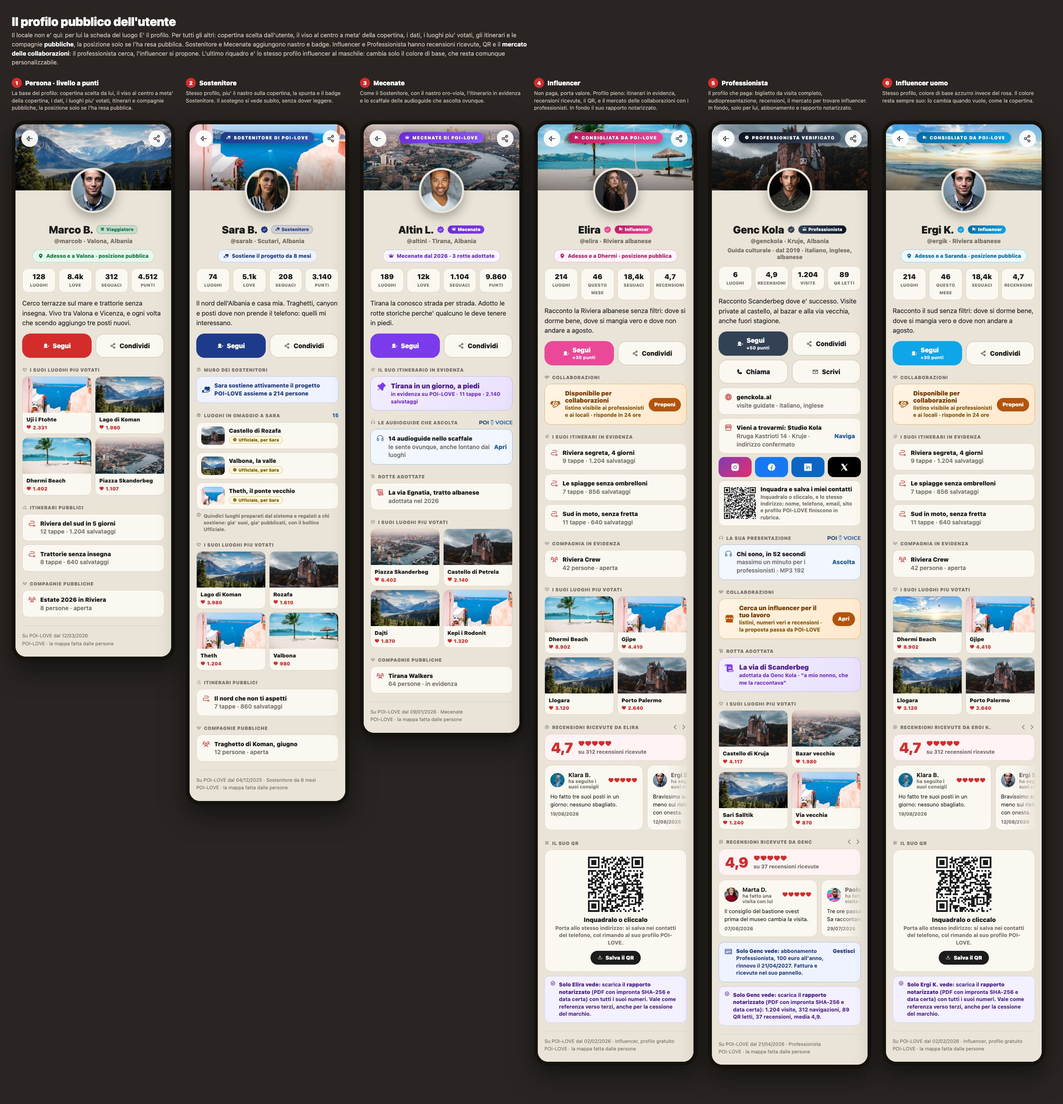
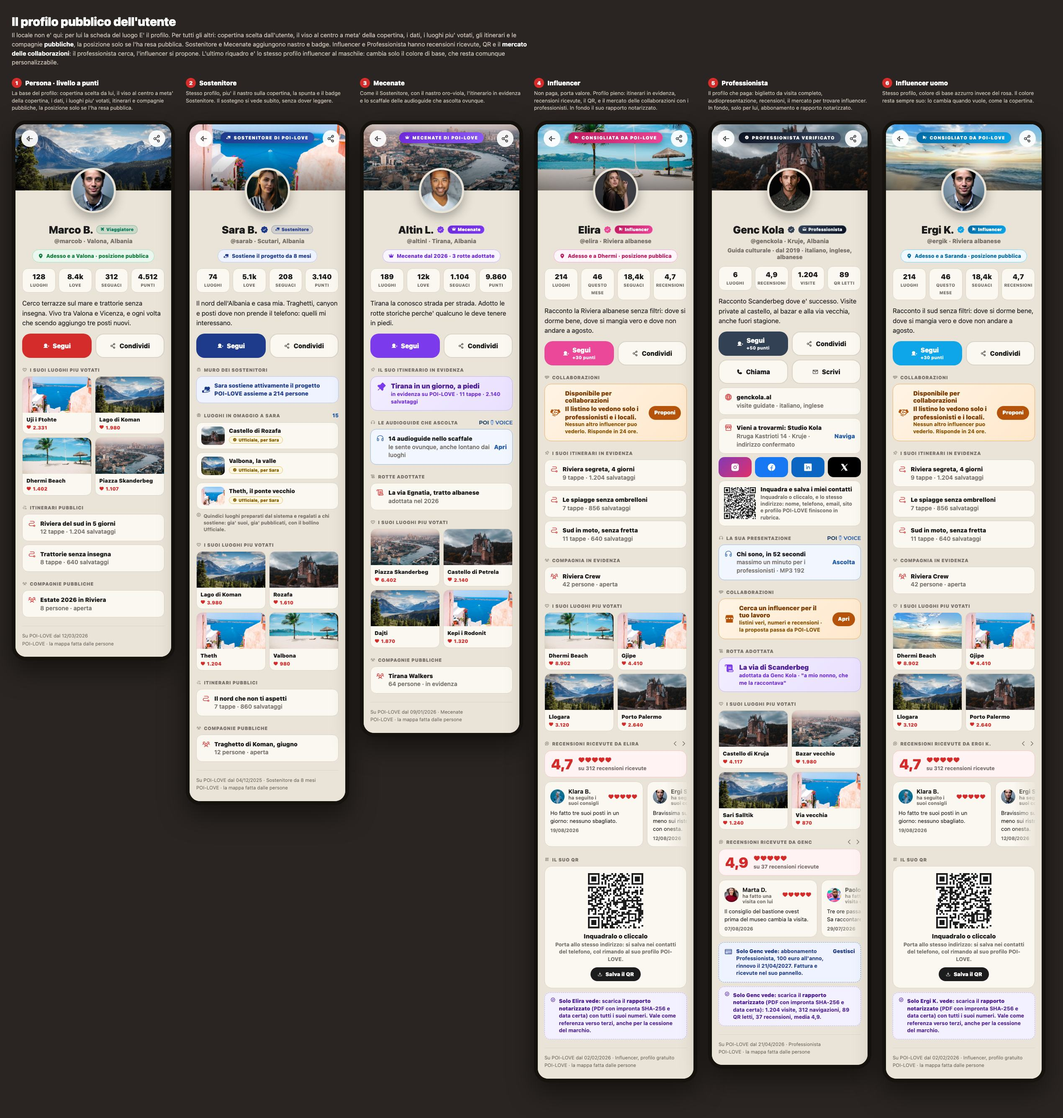
Rate card visible to professionals only; review moderation run by AI on written directives

Changed region(s): [[0.0, 0.0311, 0.9953, 0.9636]]

diff --git a/docs/mockup-schede-profili/profili.html b/docs/mockup-schede-profili/profili.html
@@ -284,7 +284,7 @@
         
         <div class="sez"><i class="ph-duotone ph-handshake"></i>Collaborazioni</div>
         <div class="mercato"><i class="ph-fill ph-handshake"></i><div><b>Disponibile per collaborazioni</b>
-          <span>listino visibile ai professionisti e ai locali · risponde in 24 ore</span></div>
+          <span><b>Il listino lo vedono solo i professionisti e i locali.</b> Nessun altro influencer puo vederlo. Risponde in 24 ore.</span></div>
           <span class="dx">Proponi</span></div>
         <div class="sez"><i class="ph-duotone ph-push-pin"></i>I suoi itinerari in evidenza</div><div class="riga"><i class="ph-duotone ph-path"></i><div><b>Riviera segreta, 4 giorni</b><br><span style="color:var(--tenue);font-weight:600">9 tappe · 1.204 salvataggi</span></div></div><div class="riga"><i class="ph-duotone ph-path"></i><div><b>Le spiagge senza ombrelloni</b><br><span style="color:var(--tenue);font-weight:600">7 tappe · 856 salvataggi</span></div></div><div class="riga"><i class="ph-duotone ph-path"></i><div><b>Sud in moto, senza fretta</b><br><span style="color:var(--tenue);font-weight:600">11 tappe · 640 salvataggi</span></div></div><div class="sez"><i class="ph-duotone ph-users-three"></i>Compagnia in evidenza</div><div class="riga"><i class="ph-duotone ph-users-three"></i><div><b>Riviera Crew</b><br><span style="color:var(--tenue);font-weight:600">42 persone · aperta</span></div></div><div class="sez"><i class="ph-duotone ph-heart"></i>I suoi luoghi piu votati</div><div class="poi2"><div><div class="im" style="background-image:url('f/5f6b75656d.jpg')"></div><div class="tx"><b>Dhermi Beach</b><span><i class="ph-fill ph-heart"></i>8.902</span></div></div><div><div class="im" style="background-image:url('f/14aa276da0.jpg')"></div><div class="tx"><b>Gjipe</b><span><i class="ph-fill ph-heart"></i>4.410</span></div></div><div><div class="im" style="background-image:url('f/1f43ef2975.jpg')"></div><div class="tx"><b>Llogara</b><span><i class="ph-fill ph-heart"></i>3.120</span></div></div><div><div class="im" style="background-image:url('f/25736c1fea.jpg')"></div><div class="tx"><b>Porto Palermo</b><span><i class="ph-fill ph-heart"></i>2.640</span></div></div></div><div class="sez"><i class="ph-duotone ph-chat-circle-text"></i>Recensioni ricevute da Elira<div class="frecce"><i class="ph-bold ph-caret-left"></i><i class="ph-bold ph-caret-right"></i></div></div><div class="media"><div class="num">4,7</div><div><div style="color:var(--rosso);font-size:16px;letter-spacing:2px"><i class="ph-fill ph-heart"></i><i class="ph-fill ph-heart"></i><i class="ph-fill ph-heart"></i><i class="ph-fill ph-heart"></i><i class="ph-fill ph-heart"></i></div><div style="font-size:12.5px;color:var(--tenue);font-weight:700;margin-top:3px">su 312 recensioni ricevute</div></div></div><div class="scorr"><div class="rec"><div class="cima"><div class="av" style="width:34px;height:34px;font-size:12px;background-image:url('f/p1.jpg')"></div><div><b style="font-size:14px">Klara B.</b><div style="font-size:11.5px;color:var(--tenue);font-weight:700">ha seguito i suoi consigli</div></div><div class="cuori"><i class="ph-fill ph-heart"></i><i class="ph-fill ph-heart"></i><i class="ph-fill ph-heart"></i><i class="ph-fill ph-heart"></i><i class="ph-fill ph-heart"></i></div></div><div class="testo">Ho fatto tre suoi posti in un giorno: nessuno sbagliato.</div><div class="quando">19/08/2026</div></div><div class="rec"><div class="cima"><div class="av" style="width:34px;height:34px;font-size:12px;background-image:url('f/p2.jpg')"></div><div><b style="font-size:14px">Ergi S.</b><div style="font-size:11.5px;color:var(--tenue);font-weight:700">ha seguito i suoi consigli</div></div><div class="cuori"><i class="ph-fill ph-heart"></i><i class="ph-fill ph-heart"></i><i class="ph-fill ph-heart"></i><i class="ph-fill ph-heart"></i><i class="ph-duotone ph-heart"></i></div></div><div class="testo">Bravissima sui posti di mare, meno sui ristoranti. Ma consiglia con onesta.</div><div class="quando">12/08/2026</div></div><div class="rec"><div class="cima"><div class="av" style="width:34px;height:34px;font-size:12px;background-image:url('f/p3.jpg')"></div><div><b style="font-size:14px">Nora T.</b><div style="font-size:11.5px;color:var(--tenue);font-weight:700">ha seguito i suoi consigli</div></div><div class="cuori"><i class="ph-fill ph-heart"></i><i class="ph-fill ph-heart"></i><i class="ph-fill ph-heart"></i><i class="ph-fill ph-heart"></i><i class="ph-fill ph-heart"></i></div></div><div class="testo">Il suo itinerario e diventato la nostra vacanza.</div><div class="quando">04/08/2026</div></div></div><div class="sez"><i class="ph-duotone ph-qr-code"></i>Il suo QR</div><div class="qrbox"><img src="f/qr-elira.png"><b>Inquadralo o cliccalo</b><span>Porta allo stesso indirizzo: si salva nei contatti del telefono, col rimando al suo profilo POI-LOVE.</span><div class="salva"><i class="ph-fill ph-download-simple"></i>Salva il QR</div></div><div class="solo-tuo" style="background:#F3F0FF;border-color:#C4B5FD;color:#4C1D95"><i class="ph-duotone ph-seal-check"></i><span><b>Solo Elira vede:</b> scarica il <b>rapporto notarizzato</b> (PDF con impronta SHA-256 e data certa) con tutti i suoi numeri. Vale come referenza verso terzi, anche per la cessione del marchio.</span></div><div class="piede">Su POI-LOVE dal 02/02/2026 · Influencer, profilo gratuito<br>POI-LOVE · la mappa fatta dalle persone</div></div></div></div><div class="col"><div class="etichetta"><span class="n">5</span> Professionista</div><div class="spiega">Il profilo che paga: biglietto da visita completo, audiopresentazione, recensioni, il mercato per trovare influencer. In fondo, solo per lui, abbonamento e rapporto notarizzato.</div><div class="tel"><div class="cop" style="background-image:url('f/25736c1fea.jpg')"><div class="fbtn sx"><i class="ph-duotone ph-arrow-left"></i></div><div class="fbtn dx"><i class="ph-duotone ph-share-network"></i></div><div class="nastro" style="background:linear-gradient(135deg,#0b1220,#3b4a63)"><i class="ph-fill ph-seal-check"></i>Professionista verificato</div><div class="avatarone" style="background-image:url('f/p4.jpg')"></div></div>
       <div class="corpo">
@@ -309,7 +309,7 @@
           <div class="social" style="background:#000"><i class="ph-fill ph-x-logo"></i></div></div>
         <div class="qrriga"><img src="f/qr-contatti.png"><div><b>Inquadra e salva i miei contatti</b>
           <span>Inquadralo o cliccalo, e lo stesso indirizzo: nome, telefono, email, sito e profilo POI-LOVE finiscono in rubrica.</span></div></div>
-        <div class="sez"><i class="ph-duotone ph-headphones"></i>La sua presentazione<img class="marchio-voice" src="logo-poivoice.svg"></div><div class="riga rvoice"><i class="ph-duotone ph-headphones"></i><div><b>Chi sono, in 52 secondi</b><br><span style="color:var(--tenue);font-weight:600">massimo un minuto per i professionisti · MP3 192</span></div><span class="dx">Ascolta</span></div><div class="sez"><i class="ph-duotone ph-handshake"></i>Collaborazioni</div><div class="mercato"><i class="ph-fill ph-storefront"></i><div><b>Cerca un influencer per il tuo lavoro</b><span>listini, numeri veri e recensioni · la proposta passa da POI-LOVE</span></div><span class="dx">Apri</span></div><div class="sez"><i class="ph-duotone ph-scroll"></i>Rotta adottata</div><div class="rotta"><i class="ph-fill ph-scroll"></i><div><b>La via di Scanderbeg</b><br><span>adottata da Genc Kola · "a mio nonno, che me la raccontava"</span></div></div><div class="sez"><i class="ph-duotone ph-heart"></i>I suoi luoghi piu votati</div><div class="poi2"><div><div class="im" style="background-image:url('f/25736c1fea.jpg')"></div><div class="tx"><b>Castello di Kruja</b><span><i class="ph-fill ph-heart"></i>4.117</span></div></div><div><div class="im" style="background-image:url('f/525029b70f.jpg')"></div><div class="tx"><b>Bazar vecchio</b><span><i class="ph-fill ph-heart"></i>1.980</span></div></div><div><div class="im" style="background-image:url('f/1f43ef2975.jpg')"></div><div class="tx"><b>Sari Salltik</b><span><i class="ph-fill ph-heart"></i>1.240</span></div></div><div><div class="im" style="background-image:url('f/14aa276da0.jpg')"></div><div class="tx"><b>Via vecchia</b><span><i class="ph-fill ph-heart"></i>870</span></div></div></div><div class="sez"><i class="ph-duotone ph-chat-circle-text"></i>Recensioni ricevute da Genc<div class="frecce"><i class="ph-bold ph-caret-left"></i><i class="ph-bold ph-caret-right"></i></div></div><div class="media"><div class="num">4,9</div><div><div style="color:var(--rosso);font-size:16px;letter-spacing:2px"><i class="ph-fill ph-heart"></i><i class="ph-fill ph-heart"></i><i class="ph-fill ph-heart"></i><i class="ph-fill ph-heart"></i><i class="ph-fill ph-heart"></i></div><div style="font-size:12.5px;color:var(--tenue);font-weight:700;margin-top:3px">su 37 recensioni ricevute</div></div></div><div class="scorr"><div class="rec"><div class="cima"><div class="av" style="width:34px;height:34px;font-size:12px;background-image:url('f/8219fe4294.jpg')"></div><div><b style="font-size:14px">Marta D.</b><div style="font-size:11.5px;color:var(--tenue);font-weight:700">ha fatto una visita con lui</div></div><div class="cuori"><i class="ph-fill ph-heart"></i><i class="ph-fill ph-heart"></i><i class="ph-fill ph-heart"></i><i class="ph-fill ph-heart"></i><i class="ph-fill ph-heart"></i></div></div><div class="testo">Il consiglio del bastione ovest prima del museo cambia la visita.</div><div class="quando">07/08/2026</div></div><div class="rec"><div class="cima"><div class="av" style="width:34px;height:34px;font-size:12px;background-image:url('f/p6.jpg')"></div><div><b style="font-size:14px">Paolo V.</b><div style="font-size:11.5px;color:var(--tenue);font-weight:700">ha fatto una visita con lui</div></div><div class="cuori"><i class="ph-fill ph-heart"></i><i class="ph-fill ph-heart"></i><i class="ph-fill ph-heart"></i><i class="ph-fill ph-heart"></i><i class="ph-fill ph-heart"></i></div></div><div class="testo">Tre ore passate come venti minuti. Sa raccontare senza recitare.</div><div class="quando">29/07/2026</div></div><div class="rec"><div class="cima"><div class="av" style="width:34px;height:34px;font-size:12px;background-image:url('f/489a56cf0a.jpg')"></div><div><b style="font-size:14px">Ana K.</b><div style="font-size:11.5px;color:var(--tenue);font-weight:700">ha fatto una visita con lui</div></div><div class="cuori"><i class="ph-fill ph-heart"></i><i class="ph-fill ph-heart"></i><i class="ph-fill ph-heart"></i><i class="ph-fill ph-heart"></i><i class="ph-duotone ph-heart"></i></div></div><div class="testo">Molto preparato. Portate acqua, la salita e vera.</div><div class="quando">16/07/2026</div></div></div><div class="abb"><i class="ph-duotone ph-credit-card" style="font-size:19px"></i><div><b>Solo Genc vede:</b> abbonamento Professionista, 100 euro all&#39;anno, rinnovo il 21/04/2027. Fattura e ricevute nel suo pannello.</div><span class="dx">Gestisci</span></div><div class="solo-tuo" style="background:#F3F0FF;border-color:#C4B5FD;color:#4C1D95"><i class="ph-duotone ph-seal-check"></i><span><b>Solo Genc vede:</b> scarica il <b>rapporto notarizzato</b> (PDF con impronta SHA-256 e data certa): 1.204 visite, 312 navigazioni, 89 QR letti, 37 recensioni, media 4,9.</span></div><div class="piede">Su POI-LOVE dal 21/04/2026 · Professionista<br>POI-LOVE · la mappa fatta dalle persone</div></div></div></div><div class="col"><div class="etichetta"><span class="n">6</span> Influencer uomo</div><div class="spiega">Stesso profilo, colore di base azzurro invece del rosa. Il colore resta sempre suo: lo cambia quando vuole, come la copertina.</div><div class="tel"><div class="cop" style="background-image:url('f/2bfcc9130b.jpg')"><div class="fbtn sx"><i class="ph-duotone ph-arrow-left"></i></div><div class="fbtn dx"><i class="ph-duotone ph-share-network"></i></div><div class="nastro" style="background:linear-gradient(135deg,#0369a1,#0ea5e9)"><i class="ph-fill ph-megaphone"></i>Consigliato da POI-LOVE</div><div class="avatarone" style="background-image:url('f/p2.jpg')"></div></div>
+        <div class="sez"><i class="ph-duotone ph-headphones"></i>La sua presentazione<img class="marchio-voice" src="logo-poivoice.svg"></div><div class="riga rvoice"><i class="ph-duotone ph-headphones"></i><div><b>Chi sono, in 52 secondi</b><br><span style="color:var(--tenue);font-weight:600">massimo un minuto per i professionisti · MP3 192</span></div><span class="dx">Ascolta</span></div><div class="sez"><i class="ph-duotone ph-handshake"></i>Collaborazioni</div><div class="mercato"><i class="ph-fill ph-storefront"></i><div><b>Cerca un influencer per il tuo lavoro</b><span>listini veri, numeri e recensioni · la proposta passa da POI-LOVE</span></div><span class="dx">Apri</span></div><div class="sez"><i class="ph-duotone ph-scroll"></i>Rotta adottata</div><div class="rotta"><i class="ph-fill ph-scroll"></i><div><b>La via di Scanderbeg</b><br><span>adottata da Genc Kola · "a mio nonno, che me la raccontava"</span></div></div><div class="sez"><i class="ph-duotone ph-heart"></i>I suoi luoghi piu votati</div><div class="poi2"><div><div class="im" style="background-image:url('f/25736c1fea.jpg')"></div><div class="tx"><b>Castello di Kruja</b><span><i class="ph-fill ph-heart"></i>4.117</span></div></div><div><div class="im" style="background-image:url('f/525029b70f.jpg')"></div><div class="tx"><b>Bazar vecchio</b><span><i class="ph-fill ph-heart"></i>1.980</span></div></div><div><div class="im" style="background-image:url('f/1f43ef2975.jpg')"></div><div class="tx"><b>Sari Salltik</b><span><i class="ph-fill ph-heart"></i>1.240</span></div></div><div><div class="im" style="background-image:url('f/14aa276da0.jpg')"></div><div class="tx"><b>Via vecchia</b><span><i class="ph-fill ph-heart"></i>870</span></div></div></div><div class="sez"><i class="ph-duotone ph-chat-circle-text"></i>Recensioni ricevute da Genc<div class="frecce"><i class="ph-bold ph-caret-left"></i><i class="ph-bold ph-caret-right"></i></div></div><div class="media"><div class="num">4,9</div><div><div style="color:var(--rosso);font-size:16px;letter-spacing:2px"><i class="ph-fill ph-heart"></i><i class="ph-fill ph-heart"></i><i class="ph-fill ph-heart"></i><i class="ph-fill ph-heart"></i><i class="ph-fill ph-heart"></i></div><div style="font-size:12.5px;color:var(--tenue);font-weight:700;margin-top:3px">su 37 recensioni ricevute</div></div></div><div class="scorr"><div class="rec"><div class="cima"><div class="av" style="width:34px;height:34px;font-size:12px;background-image:url('f/8219fe4294.jpg')"></div><div><b style="font-size:14px">Marta D.</b><div style="font-size:11.5px;color:var(--tenue);font-weight:700">ha fatto una visita con lui</div></div><div class="cuori"><i class="ph-fill ph-heart"></i><i class="ph-fill ph-heart"></i><i class="ph-fill ph-heart"></i><i class="ph-fill ph-heart"></i><i class="ph-fill ph-heart"></i></div></div><div class="testo">Il consiglio del bastione ovest prima del museo cambia la visita.</div><div class="quando">07/08/2026</div></div><div class="rec"><div class="cima"><div class="av" style="width:34px;height:34px;font-size:12px;background-image:url('f/p6.jpg')"></div><div><b style="font-size:14px">Paolo V.</b><div style="font-size:11.5px;color:var(--tenue);font-weight:700">ha fatto una visita con lui</div></div><div class="cuori"><i class="ph-fill ph-heart"></i><i class="ph-fill ph-heart"></i><i class="ph-fill ph-heart"></i><i class="ph-fill ph-heart"></i><i class="ph-fill ph-heart"></i></div></div><div class="testo">Tre ore passate come venti minuti. Sa raccontare senza recitare.</div><div class="quando">29/07/2026</div></div><div class="rec"><div class="cima"><div class="av" style="width:34px;height:34px;font-size:12px;background-image:url('f/489a56cf0a.jpg')"></div><div><b style="font-size:14px">Ana K.</b><div style="font-size:11.5px;color:var(--tenue);font-weight:700">ha fatto una visita con lui</div></div><div class="cuori"><i class="ph-fill ph-heart"></i><i class="ph-fill ph-heart"></i><i class="ph-fill ph-heart"></i><i class="ph-fill ph-heart"></i><i class="ph-duotone ph-heart"></i></div></div><div class="testo">Molto preparato. Portate acqua, la salita e vera.</div><div class="quando">16/07/2026</div></div></div><div class="abb"><i class="ph-duotone ph-credit-card" style="font-size:19px"></i><div><b>Solo Genc vede:</b> abbonamento Professionista, 100 euro all&#39;anno, rinnovo il 21/04/2027. Fattura e ricevute nel suo pannello.</div><span class="dx">Gestisci</span></div><div class="solo-tuo" style="background:#F3F0FF;border-color:#C4B5FD;color:#4C1D95"><i class="ph-duotone ph-seal-check"></i><span><b>Solo Genc vede:</b> scarica il <b>rapporto notarizzato</b> (PDF con impronta SHA-256 e data certa): 1.204 visite, 312 navigazioni, 89 QR letti, 37 recensioni, media 4,9.</span></div><div class="piede">Su POI-LOVE dal 21/04/2026 · Professionista<br>POI-LOVE · la mappa fatta dalle persone</div></div></div></div><div class="col"><div class="etichetta"><span class="n">6</span> Influencer uomo</div><div class="spiega">Stesso profilo, colore di base azzurro invece del rosa. Il colore resta sempre suo: lo cambia quando vuole, come la copertina.</div><div class="tel"><div class="cop" style="background-image:url('f/2bfcc9130b.jpg')"><div class="fbtn sx"><i class="ph-duotone ph-arrow-left"></i></div><div class="fbtn dx"><i class="ph-duotone ph-share-network"></i></div><div class="nastro" style="background:linear-gradient(135deg,#0369a1,#0ea5e9)"><i class="ph-fill ph-megaphone"></i>Consigliato da POI-LOVE</div><div class="avatarone" style="background-image:url('f/p2.jpg')"></div></div>
       <div class="corpo">
         <div class="testa">
           <div class="nome-p">Ergi K. <i class="ph-fill ph-seal-check" style="color:#0ea5e9;font-size:19px"></i>
@@ -325,7 +325,7 @@
         
         <div class="sez"><i class="ph-duotone ph-handshake"></i>Collaborazioni</div>
         <div class="mercato"><i class="ph-fill ph-handshake"></i><div><b>Disponibile per collaborazioni</b>
-          <span>listino visibile ai professionisti e ai locali · risponde in 24 ore</span></div>
+          <span><b>Il listino lo vedono solo i professionisti e i locali.</b> Nessun altro influencer puo vederlo. Risponde in 24 ore.</span></div>
           <span class="dx">Proponi</span></div>
         <div class="sez"><i class="ph-duotone ph-push-pin"></i>I suoi itinerari in evidenza</div><div class="riga"><i class="ph-duotone ph-path"></i><div><b>Riviera segreta, 4 giorni</b><br><span style="color:var(--tenue);font-weight:600">9 tappe · 1.204 salvataggi</span></div></div><div class="riga"><i class="ph-duotone ph-path"></i><div><b>Le spiagge senza ombrelloni</b><br><span style="color:var(--tenue);font-weight:600">7 tappe · 856 salvataggi</span></div></div><div class="riga"><i class="ph-duotone ph-path"></i><div><b>Sud in moto, senza fretta</b><br><span style="color:var(--tenue);font-weight:600">11 tappe · 640 salvataggi</span></div></div><div class="sez"><i class="ph-duotone ph-users-three"></i>Compagnia in evidenza</div><div class="riga"><i class="ph-duotone ph-users-three"></i><div><b>Riviera Crew</b><br><span style="color:var(--tenue);font-weight:600">42 persone · aperta</span></div></div><div class="sez"><i class="ph-duotone ph-heart"></i>I suoi luoghi piu votati</div><div class="poi2"><div><div class="im" style="background-image:url('f/2bfcc9130b.jpg')"></div><div class="tx"><b>Dhermi Beach</b><span><i class="ph-fill ph-heart"></i>8.902</span></div></div><div><div class="im" style="background-image:url('f/14aa276da0.jpg')"></div><div class="tx"><b>Gjipe</b><span><i class="ph-fill ph-heart"></i>4.410</span></div></div><div><div class="im" style="background-image:url('f/1f43ef2975.jpg')"></div><div class="tx"><b>Llogara</b><span><i class="ph-fill ph-heart"></i>3.120</span></div></div><div><div class="im" style="background-image:url('f/25736c1fea.jpg')"></div><div class="tx"><b>Porto Palermo</b><span><i class="ph-fill ph-heart"></i>2.640</span></div></div></div><div class="sez"><i class="ph-duotone ph-chat-circle-text"></i>Recensioni ricevute da Ergi K.<div class="frecce"><i class="ph-bold ph-caret-left"></i><i class="ph-bold ph-caret-right"></i></div></div><div class="media"><div class="num">4,7</div><div><div style="color:var(--rosso);font-size:16px;letter-spacing:2px"><i class="ph-fill ph-heart"></i><i class="ph-fill ph-heart"></i><i class="ph-fill ph-heart"></i><i class="ph-fill ph-heart"></i><i class="ph-fill ph-heart"></i></div><div style="font-size:12.5px;color:var(--tenue);font-weight:700;margin-top:3px">su 312 recensioni ricevute</div></div></div><div class="scorr"><div class="rec"><div class="cima"><div class="av" style="width:34px;height:34px;font-size:12px;background-image:url('f/p1.jpg')"></div><div><b style="font-size:14px">Klara B.</b><div style="font-size:11.5px;color:var(--tenue);font-weight:700">ha seguito i suoi consigli</div></div><div class="cuori"><i class="ph-fill ph-heart"></i><i class="ph-fill ph-heart"></i><i class="ph-fill ph-heart"></i><i class="ph-fill ph-heart"></i><i class="ph-fill ph-heart"></i></div></div><div class="testo">Ho fatto tre suoi posti in un giorno: nessuno sbagliato.</div><div class="quando">19/08/2026</div></div><div class="rec"><div class="cima"><div class="av" style="width:34px;height:34px;font-size:12px;background-image:url('f/p2.jpg')"></div><div><b style="font-size:14px">Ergi S.</b><div style="font-size:11.5px;color:var(--tenue);font-weight:700">ha seguito i suoi consigli</div></div><div class="cuori"><i class="ph-fill ph-heart"></i><i class="ph-fill ph-heart"></i><i class="ph-fill ph-heart"></i><i class="ph-fill ph-heart"></i><i class="ph-duotone ph-heart"></i></div></div><div class="testo">Bravissimo sui posti di mare, meno sui ristoranti. Ma consiglia con onesta.</div><div class="quando">12/08/2026</div></div><div class="rec"><div class="cima"><div class="av" style="width:34px;height:34px;font-size:12px;background-image:url('f/p3.jpg')"></div><div><b style="font-size:14px">Nora T.</b><div style="font-size:11.5px;color:var(--tenue);font-weight:700">ha seguito i suoi consigli</div></div><div class="cuori"><i class="ph-fill ph-heart"></i><i class="ph-fill ph-heart"></i><i class="ph-fill ph-heart"></i><i class="ph-fill ph-heart"></i><i class="ph-fill ph-heart"></i></div></div><div class="testo">Il suo itinerario e diventato la nostra vacanza.</div><div class="quando">04/08/2026</div></div></div><div class="sez"><i class="ph-duotone ph-qr-code"></i>Il suo QR</div><div class="qrbox"><img src="f/qr-ergi.png"><b>Inquadralo o cliccalo</b><span>Porta allo stesso indirizzo: si salva nei contatti del telefono, col rimando al suo profilo POI-LOVE.</span><div class="salva"><i class="ph-fill ph-download-simple"></i>Salva il QR</div></div><div class="solo-tuo" style="background:#F3F0FF;border-color:#C4B5FD;color:#4C1D95"><i class="ph-duotone ph-seal-check"></i><span><b>Solo Ergi K. vede:</b> scarica il <b>rapporto notarizzato</b> (PDF con impronta SHA-256 e data certa) con tutti i suoi numeri. Vale come referenza verso terzi, anche per la cessione del marchio.</span></div><div class="piede">Su POI-LOVE dal 02/02/2026 · Influencer, profilo gratuito<br>POI-LOVE · la mappa fatta dalle persone</div></div></div></div></div>
 </body></html>

diff --git a/docs/mockup-schede-profili/profili.py b/docs/mockup-schede-profili/profili.py
@@ -209,7 +209,7 @@ P.append(dict(n=4, tit='Influencer',
       +'''
         '''+sez('handshake','Collaborazioni')+'''
         <div class="mercato"><i class="ph-fill ph-handshake"></i><div><b>Disponibile per collaborazioni</b>
-          <span>listino visibile ai professionisti e ai locali · risponde in 24 ore</span></div>
+          <span><b>Il listino lo vedono solo i professionisti e i locali.</b> Nessun altro influencer puo vederlo. Risponde in 24 ore.</span></div>
           <span class="dx">Proponi</span></div>
         '''+sez('push-pin','I suoi itinerari in evidenza')
       +riga('path','Riviera segreta, 4 giorni','9 tappe · 1.204 salvataggi')
@@ -262,7 +262,7 @@ P.append(dict(n=5, tit='Professionista',
       +'<div class="riga rvoice"><i class="ph-duotone ph-headphones"></i><div><b>Chi sono, in 52 secondi</b><br><span style="color:var(--tenue);font-weight:600">massimo un minuto per i professionisti · MP3 192</span></div><span class="dx">Ascolta</span></div>'
       +sez('handshake','Collaborazioni')
       +'<div class="mercato"><i class="ph-fill ph-storefront"></i><div><b>Cerca un influencer per il tuo lavoro</b>'
-      +'<span>listini, numeri veri e recensioni · la proposta passa da POI-LOVE</span></div><span class="dx">Apri</span></div>'
+      +'<span>listini veri, numeri e recensioni · la proposta passa da POI-LOVE</span></div><span class="dx">Apri</span></div>'
       +sez('scroll','Rotta adottata')
       +'<div class="rotta"><i class="ph-fill ph-scroll"></i><div><b>La via di Scanderbeg</b><br><span>adottata da Genc Kola · "a mio nonno, che me la raccontava"</span></div></div>'
       +sez('heart','I suoi luoghi piu votati')+poi_votati([

diff --git a/PROGETTO-PROFILI-E-SCHEDE.md b/PROGETTO-PROFILI-E-SCHEDE.md
@@ -45,7 +45,22 @@ Non esiste nessuna tabella di recensioni. Serve tutto:
 - **regola di amicizia**: sui locali scrive solo chi e' amico, una a testa. Oggi esiste `follows`, che e' a senso unico:
   va deciso se "amico" vuol dire seguirsi a vicenda o se serve una tabella di amicizia vera **(decisione tua)**;
 - il locale puo' bandire una persona (le recensioni restano), la persona che toglie l'amicizia fa sparire le sue;
-- medie calcolate e tenute aggiornate, moderazione dall'amministrazione, +200 punti a chi recensisce;
+- medie calcolate e tenute aggiornate, +200 punti a chi recensisce;
+
+**Moderazione fatta dall'AI, guidata da direttive scritte (20/08/2026)**
+- Le direttive stanno **nell'amministrazione**, scritte da noi e modificabili senza toccare il codice:
+  cosa non passa (insulti, razzismo, dati personali di terzi, numeri di telefono e collegamenti,
+  attacchi ai concorrenti, testo fuori tema, recensione palesemente falsa), tono ammesso, lingue.
+- Ogni recensione nuova passa dal controllo **prima di comparire**. Tre esiti: **pubblica**,
+  **mettila in coda per una persona**, **rifiuta con il motivo scritto**.
+- L'AI scrive sempre **quale direttiva** ha fatto scattare la decisione: la persona in coda vede il perche',
+  non un verdetto muto. Ogni decisione resta scritta, cosi' le direttive si correggono sui casi veri.
+- Vale anche per le segnalazioni degli utenti: e' questo che permette di rispondere **entro 24 ore**,
+  come pretende Apple, senza che qualcuno stia sveglio a leggere.
+- Chiave dell'AI **solo sul server**, tetto mensile di chiamate come gia' fatto per le mappe,
+  e ricaduta se il tetto si esaurisce: la recensione resta in coda invece di passare senza controllo.
+- La stessa impalcatura servira' domani per i luoghi, le foto e i messaggi delle compagnie:
+  si costruisce una volta sola.
 - viste: sulla scheda del locale, sul profilo di influencer e professionisti (a scorrimento).
 
 ### Blocco 3 · Profilo pubblico dell'utente
@@ -115,6 +130,16 @@ Fase 1: l'influencer accende la disponibilita' e pubblica il listino; il profess
 per zona, tema, numeri veri e recensioni; la proposta e l'accordo passano dentro POI•LOVE.
 Fase 2 (dipende dall'incassatore): pagamento trattenuto fino alla consegna e commissione a POI•LOVE.
 
+**Regola di visibilita' del listino (20/08/2026, non negoziabile)**
+- Il listino di un influencer lo vedono **solo i professionisti e i locali Plus**. E l'amministrazione.
+- **Un influencer non vede mai il listino di un altro influencer.** Vede solo il proprio.
+- Chi non ha diritto vede il riquadro "Disponibile per collaborazioni" e il pulsante per proporre,
+  ma **non i prezzi**.
+- Il divieto si fa rispettare **sul server** (regola per riga sul database), non nascondendo il riquadro
+  nella pagina: nascondere non e' proteggere.
+- Nel pannello dell'influencer la cosa e' scritta **grande e chiara**, non in una nota a pie' di pagina:
+  *"Il tuo listino lo vedono solo i professionisti e i locali. Nessun altro influencer puo' vederlo."*
+
 ### Blocco 13 · Amministrazione trasversale
 Tipi di scheda organizzabili, tempi di scorrimento, moderazione delle recensioni, gestione del menu,
 gestione degli abbonamenti, assegnazione dei luoghi in omaggio.
@@ -133,7 +158,7 @@ Non comprende il tempo di collaudo di Alessandro.
 | # | Blocco | Giornate |
 |---|---|---|
 | 1 | Scheda del luogo, struttura vera | 2 |
-| 2 | Recensioni | 3 |
+| 2 | Recensioni, con moderazione fatta dall'AI su direttive scritte | 4 |
 | 3 | Profilo pubblico dell'utente | 4 |
 | 4 | Vantaggi dei livelli resi veri | 3 |
 | 5 | Controllo automatico delle condizioni | 1 |
@@ -147,10 +172,10 @@ Non comprende il tempo di collaudo di Alessandro.
 | 12 | Mercato professionisti e influencer (fase 1) | 3 |
 | 13 | Amministrazione trasversale | 2 |
 | 14 | Tre lingue, motori di ricerca, collaudo | 2,5 |
-| | **Totale fase 1** | **34,5** |
+| | **Totale fase 1** | **35,5** |
 | 15 | Incasso con carta (dipende dall'incassatore) | 2 |
 | 16 | Pagamento trattenuto e commissione del mercato | 2,5 |
-| | **Totale con la fase 2** | **39** |
+| | **Totale con la fase 2** | **40** |
 
 A una giornata al giorno lavorativo: **circa sette settimane** per la fase 1, otto con la fase 2.
 
@@ -242,12 +267,12 @@ e **200 luoghi veri in tutta l'Albania, 50 dei quali Ufficiali**. I tempi si all
 
 | Cantiere | Cosa comprende | Giornate |
 |---|---|---|
-| **A · Web, fase 1** | i blocchi del capitolo 2: schede, profili, livelli, recensioni, locale Plus, audio della persona, audioguide ufficiali, QR, abbonamenti | 34,5 |
+| **A · Web, fase 1** | i blocchi del capitolo 2: schede, profili, livelli, recensioni, locale Plus, audio della persona, audioguide ufficiali, QR, abbonamenti | 35,5 |
 | **B · Amministrazione al massimo** | persone, luoghi, moderazione recensioni, menu dei locali, abbonamenti, media, livelli, statistiche, ruoli | 6 |
 | **C · Contenuti: 200 luoghi, 50 Ufficiali** | raccolta dai dati aperti, scrittura, foto con licenza, verifica, bollino Ufficiale | 5 |
 | **D · App iOS e Android** | dall'impianto esistente fino agli store | 24,5 |
 | **E · Fase 2 web** | mercato professionisti-influencer, rapporto notarizzato, promemoria di scadenza | 5,5 |
-| | **Totale** | **75,5** |
+| | **Totale** | **76,5** |
 
 L'incasso con carta (2 giornate) resta fuori conteggio: dipende da quale incassatore accetta una societa' albanese.
 
@@ -340,7 +365,7 @@ sul codice e sul web. Quello che ha trovato, e come cambia il piano.
 - **Apple e gli abbonamenti**: venduti dentro l'app, passano dal sistema di Apple con la sua percentuale. Alessandro ha detto che gli sta bene: i numeri sono nel capitolo 9.4.
 - **Moderazione entro 24 ore**: Apple pretende segnalazione dei contenuti e intervento entro un giorno, con espulsione dell'utente. Oggi la moderazione e' tutta a mano. Serve il giro completo segnalazione, coda, blocco.
 - **Posizione in sottofondo**: e' il punto piu' delicato della revisione degli store, non una voce come le altre.
-- **Recensioni**: nessun tempo minimo fra "ti seguo" e "ti recensisco", nessun tetto giornaliero, nessuna procedura di contestazione per il gestore. Vanno messi prima di aprire le recensioni.
+- **Recensioni**: nessun tempo minimo fra "ti seguo" e "ti recensisco", nessun tetto giornaliero, nessuna procedura di contestazione per il gestore. Vanno messi prima di aprire le recensioni. La moderazione con l'AI su direttive scritte (Blocco 2) copre il resto.
 - **Chi controlla l'albanese** delle 50 schede Ufficiali. Serve un nome. Erion e' commercialista, non revisore di lingua.
 - **Le bozze grafiche stavano solo nella cartella temporanea**: spostate in `docs/mockup-schede-profili/`.
 
@@ -378,22 +403,22 @@ Due cose da sapere:
 
 | Cantiere | Prima | Adesso | Perche' |
 |---|---|---|---|
-| Web fase 1 | 34,5 | **38,5** | locale Plus +2, licenze e attribuzione foto +1, anti abuso recensioni +0,5, cambio +0,5. Comprende l'audio della persona e le audioguide ufficiali, separate il 20/08 |
+| Web fase 1 | 35,5 | **39,5** | locale Plus +2, licenze e attribuzione foto +1, anti abuso recensioni +0,5, cambio +0,5. Comprende l'audio della persona e le audioguide ufficiali, separate il 20/08 |
 | Amministrazione | 6 | **7** | moderazione entro 24 ore e blocco utenti, richiesti da Apple |
 | 200 luoghi, 50 Ufficiali | 5 | **9** | si parte da 18 luoghi e zero Ufficiali |
 | App iOS e Android | 24,5 | **30** | riscrittura del livello dati, porto alla versione attuale, tre punti delicati in revisione |
 | Fase 2 web | 5,5 | **6** | marcatura temporale vera per il rapporto |
-| | **75,5** | **90,5** | |
+| | **76,5** | **91,5** | |
 
-Calendario aggiornato, una giornata al giorno da venerdi 21/08 (90,5 giornate):
+Calendario aggiornato, una giornata al giorno da venerdi 21/08 (91,5 giornate):
 
 | Traguardo | Prima | Adesso |
 |---|---|---|
-| Web fase 1 completo | 22/09 | **28/09** |
-| Amministrazione perfezionata | 28/09 | **05/10** |
-| 200 luoghi in linea | 03/10 | **14/10** |
-| Fase 2 web | 09/10 | **20/10** |
-| App inviata agli store | 03/11 | **19/11** |
+| Web fase 1 completo | 22/09 | **29/09** |
+| Amministrazione perfezionata | 28/09 | **06/10** |
+| 200 luoghi in linea | 03/10 | **15/10** |
+| Fase 2 web | 09/10 | **21/10** |
+| App inviata agli store | 03/11 | **20/11** |
 | App pubblicata | meta' novembre | **fine novembre, inizio dicembre** |
 
 ### 9.6 Le cinque domande da sciogliere prima del via
